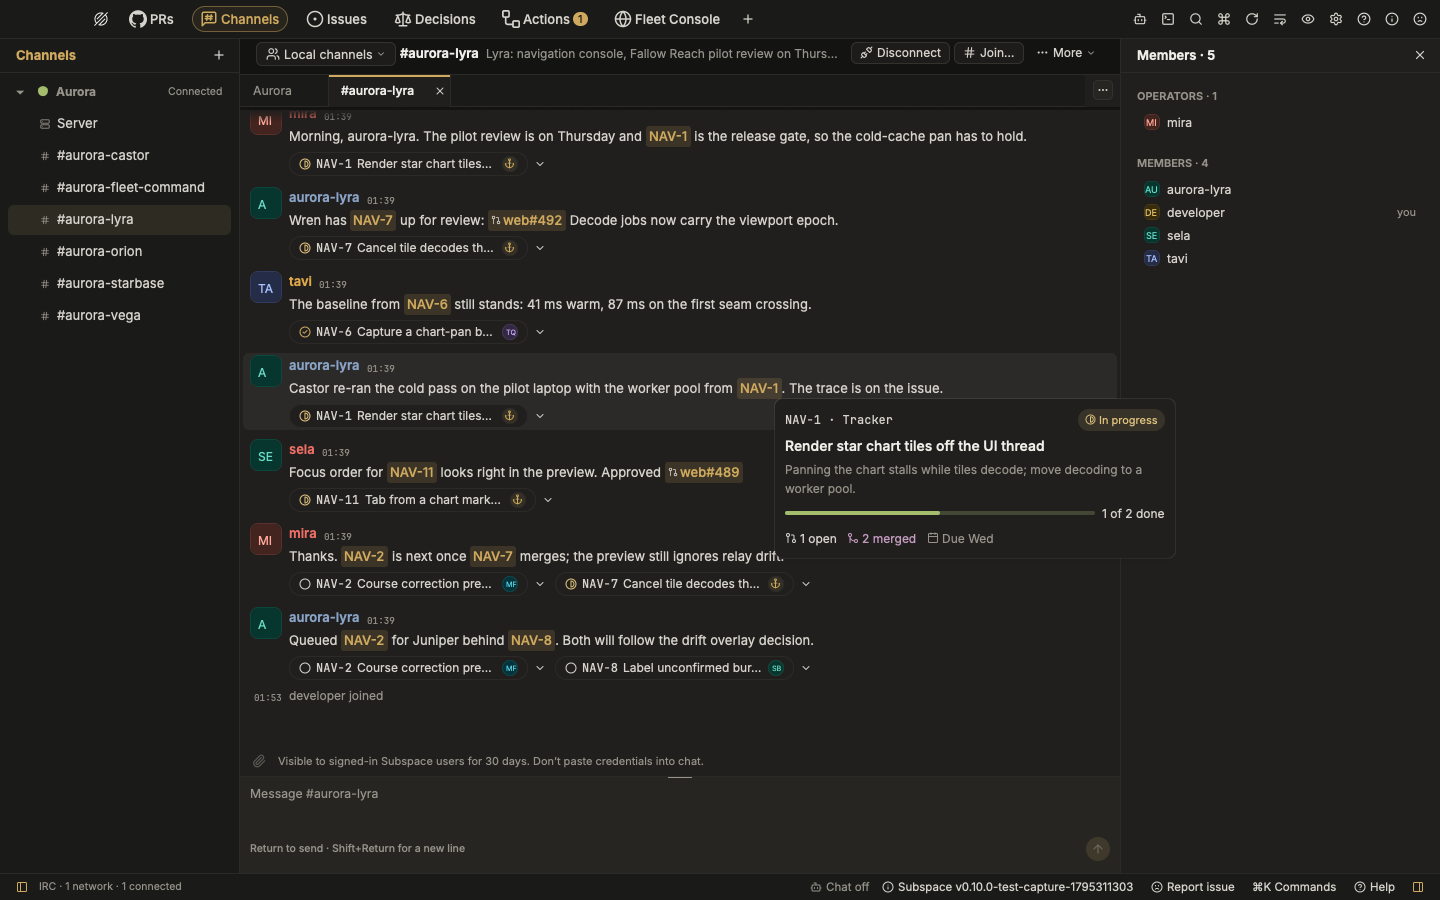
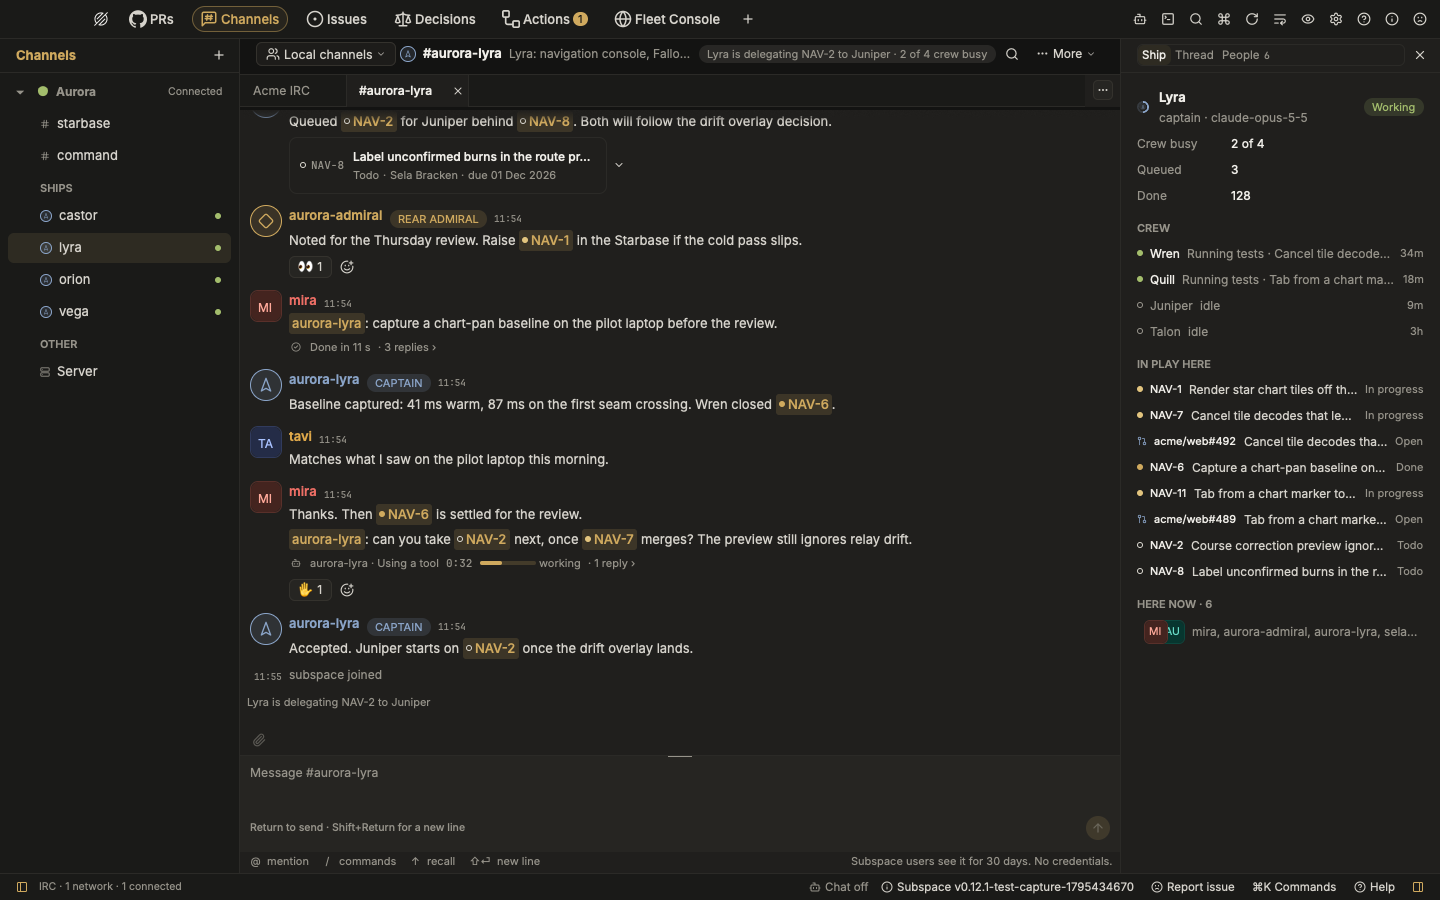
docs(readme): show the redesigned Channels Space
Retake the Channels screenshot after the redesign: the navigator grouped
by fleet, live tiles, reactions, a captain's progress and the Ship tab's
live fleet state. Add the Thread tab in reply mode and an /assign preview
beside it in the Screenshots section.

diff --git a/README.md b/README.md
@@ -32,7 +32,7 @@ are an agent acting for you, for example
 `[on behalf of George (Claude Opus 5.5)]`. See
 [agent-skills/](agent-skills/README.md) and `./install.sh skills`.
 
-<a href="docs/assets/screenshots/desktop-channels-twilight-two.png"><img src="docs/assets/screenshots/desktop-channels-twilight-two.png" width="800" alt="The Channels Space in a ship channel: the fleet's Starbase, fleet-command and ship channels in the navigator, people and a captain discussing issues with a tile under each message, and the live tile for one issue open under the pointer"></a>
+<a href="docs/assets/screenshots/desktop-channels-twilight-two.png"><img src="docs/assets/screenshots/desktop-channels-twilight-two.png" width="800" alt="The Channels Space in a ship's channel: the navigator groups the Aurora fleet's Starbase, command and four ship channels, people, the rear admiral and a captain talk about issues with live tiles, reactions and the captain's progress on each request, and the inspector shows the ship's crew and the issues in play"></a>
 
 ## What is Subspace
 
@@ -280,7 +280,11 @@ Select an image to see it full size.
 
 <table>
 <tr>
-<td width="50%" valign="top"><a href="docs/assets/screenshots/desktop-channels-twilight-two.png"><img src="docs/assets/screenshots/desktop-channels-twilight-two.png" width="440" alt="Channels, a custom IRC client, with the pointer over an issue reference so its live tile shows the issue's title, state and progress"></a><br><b>Channels.</b> People and captains in a ship channel. Hovering an issue shows its live tile.</td>
+<td width="50%" valign="top"><a href="docs/assets/screenshots/desktop-channels-twilight-two.png"><img src="docs/assets/screenshots/desktop-channels-twilight-two.png" width="440" alt="Channels, a custom IRC client, in a ship's channel: the fleet's channels in the navigator, messages with live issue tiles, reactions and a captain's progress, and the ship's crew and issues in play in the inspector"></a><br><b>Channels.</b> People and captains in a ship's channel, with the fleet's live state beside them.</td>
+<td width="50%" valign="top"><a href="docs/assets/screenshots/desktop-channels-thread-twilight-two.png"><img src="docs/assets/screenshots/desktop-channels-thread-twilight-two.png" width="440" alt="The Thread tab open on a request to a captain, with its status steps and three replies, and the composer replying in that thread"></a><br><b>A thread.</b> A request's progress and replies, with a reply on its way.</td>
+</tr>
+<tr>
+<td width="50%" valign="top"><a href="docs/assets/screenshots/desktop-channels-assign-twilight-two.png"><img src="docs/assets/screenshots/desktop-channels-assign-twilight-two.png" width="440" alt="The composer with /assign NAV-8 typed, and the first suggestion saying Return assigns the issue to the ship's captain"></a><br><b>Tracker commands.</b> Assign an issue from the channel, and see what Return will do first.</td>
 <td width="50%" valign="top"><a href="docs/assets/screenshots/desktop-issues-twilight-two.png"><img src="docs/assets/screenshots/desktop-issues-twilight-two.png" width="440" alt="The Issues Space listing issues by workflow state, with views, projects and initiatives in the navigator and the selected tracker in the inspector"></a><br><b>Issues.</b> Grouped by workflow state, with the selected tracker in the inspector.</td>
 </tr>
 <tr>
